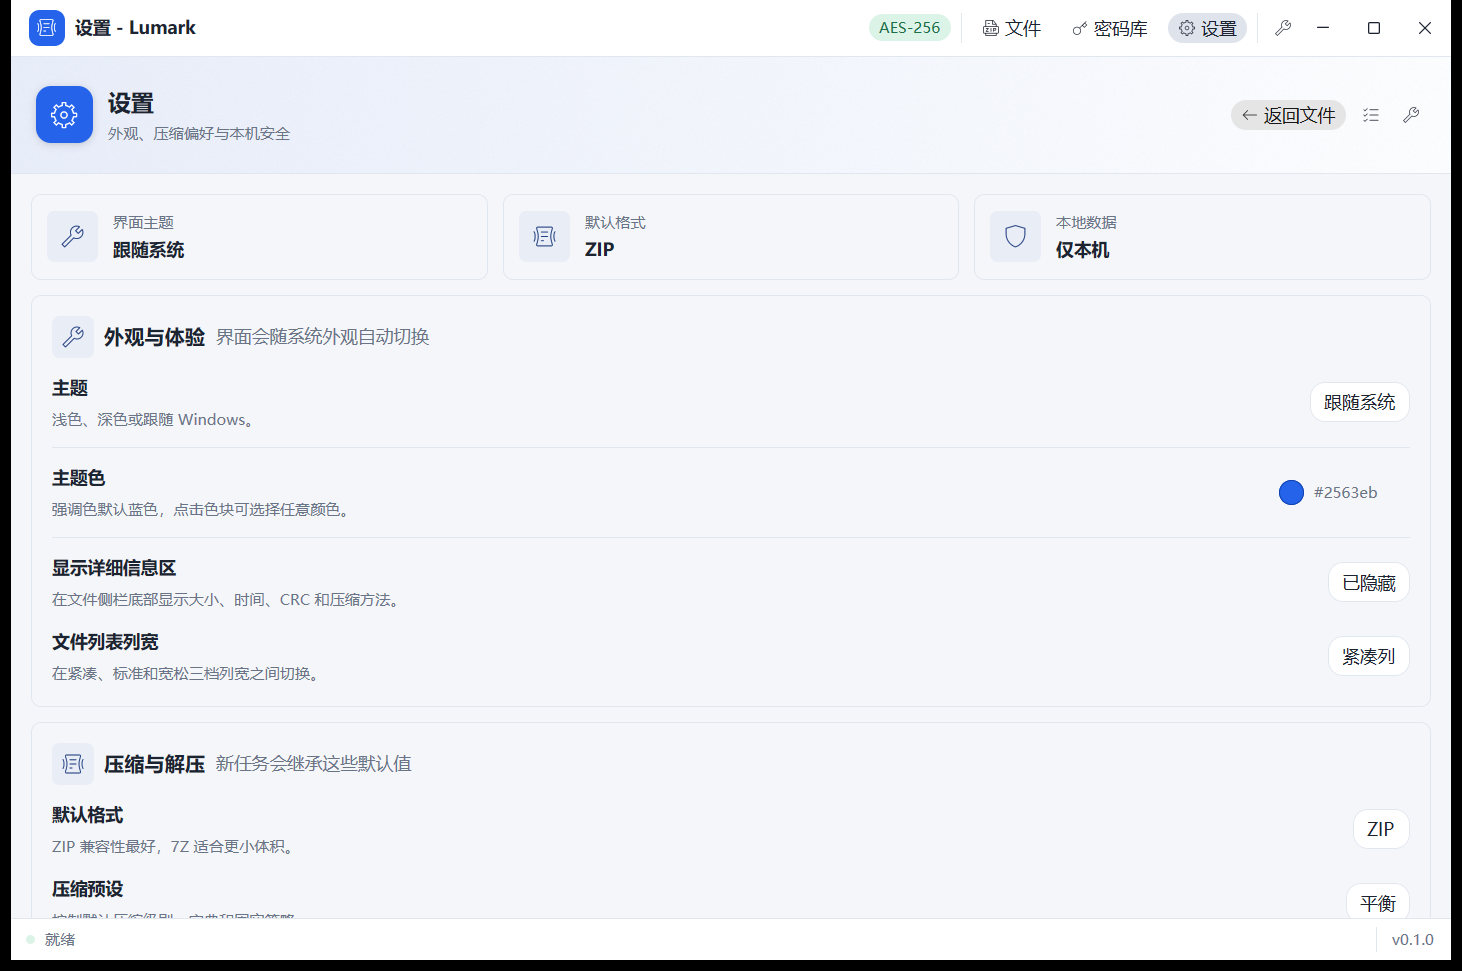
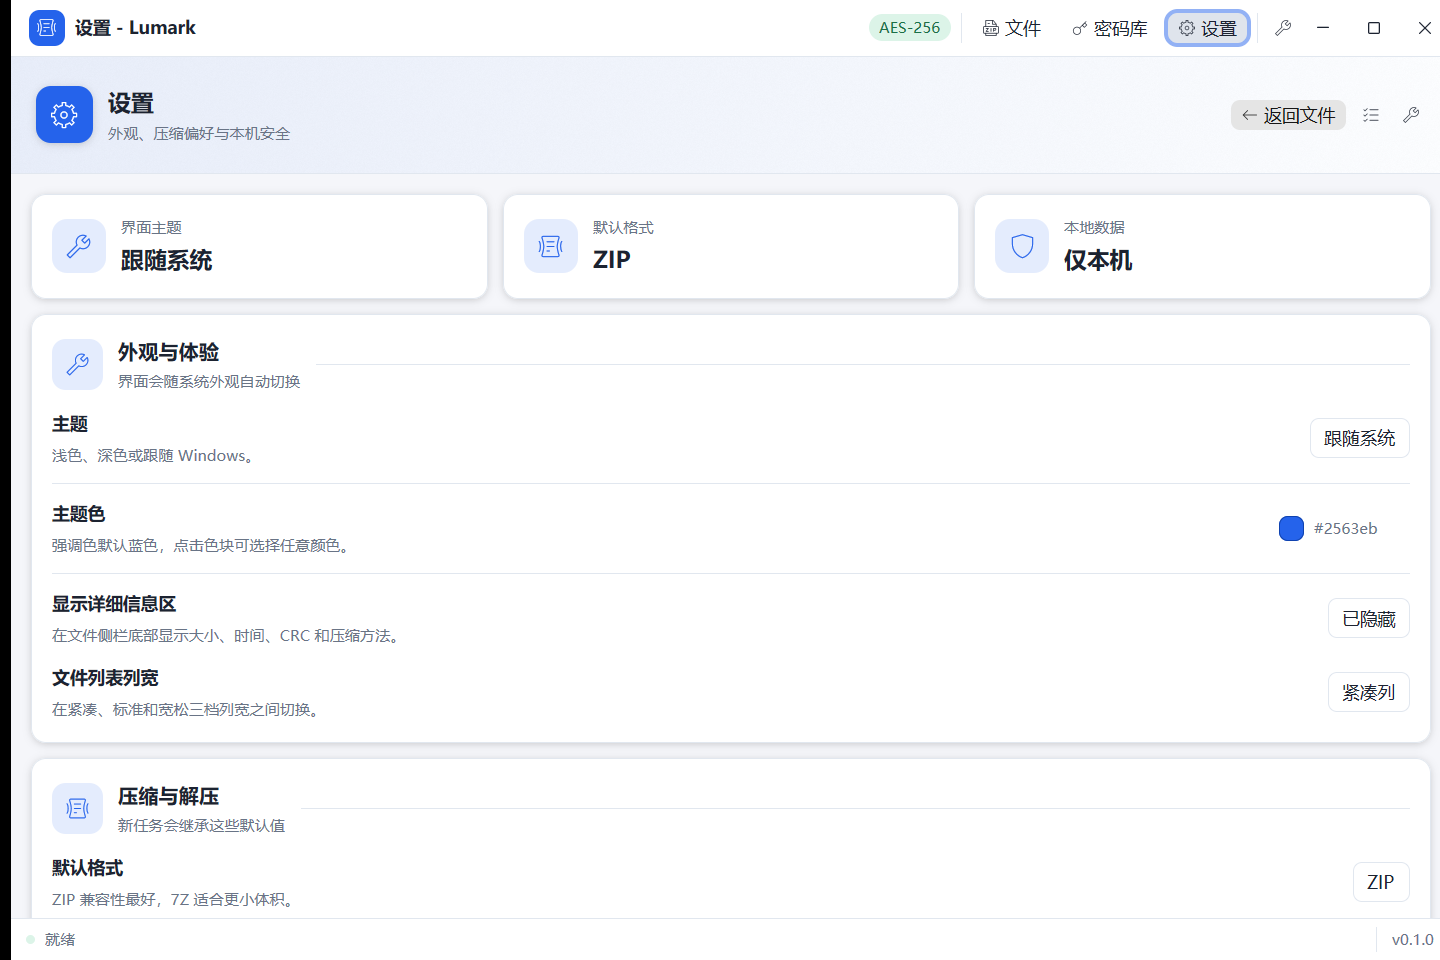
feat: 优化设置与任务页面层次

diff --git a/crates/lumark-ui/src/app/view/pages.rs b/crates/lumark-ui/src/app/view/pages.rs
@@ -87,6 +87,7 @@ impl LumarkApp {
                                     .p_4()
                                     .gap_2()
                                     .items_center()
+                                    .bg(cx.theme().muted.opacity(0.45))
                                     .border_b_1()
                                     .border_color(cx.theme().border)
                                     .child(
@@ -466,6 +467,7 @@ impl LumarkApp {
                                     .p_4()
                                     .gap_2()
                                     .items_center()
+                                    .bg(cx.theme().muted.opacity(0.45))
                                     .border_b_1()
                                     .border_color(cx.theme().border)
                                     .child(AppIcon::Edit.element(16.))
@@ -1180,6 +1182,7 @@ impl LumarkApp {
                             .justify_between()
                             .items_center()
                             .p_4()
+                            .bg(cx.theme().muted.opacity(0.45))
                             .border_b_1()
                             .border_color(cx.theme().border)
                             .child(
@@ -1308,8 +1311,8 @@ impl LumarkApp {
                     .mt(px(2.))
                     .flex_shrink_0()
                     .rounded(px(8.))
-                    .bg(cx.theme().accent)
-                    .text_color(cx.theme().accent_foreground)
+                    .bg(badge_bg)
+                    .text_color(badge_fg)
                     .flex()
                     .items_center()
                     .justify_center()
@@ -1495,31 +1498,31 @@ fn password_stat(
     label: &str,
     value: &str,
 ) -> impl IntoElement {
-    card(cx).flex_1().p_3().child(
+    card(cx).flex_1().p_4().child(
         h_flex()
             .gap_3()
             .items_center()
             .child(
                 div()
-                    .size(px(34.))
-                    .rounded_md()
-                    .bg(cx.theme().accent)
-                    .text_color(cx.theme().accent_foreground)
+                    .size(px(36.))
+                    .rounded(px(10.))
+                    .bg(cx.theme().primary.opacity(0.12))
+                    .text_color(cx.theme().primary)
                     .flex()
                     .items_center()
                     .justify_center()
-                    .child(icon.element(17.)),
+                    .child(icon.element(18.)),
             )
             .child(
                 v_flex()
-                    .gap(px(0.))
+                    .gap(px(1.))
                     .child(
                         div()
                             .text_xs()
                             .text_color(cx.theme().muted_foreground)
                             .child(label.to_string()),
                     )
-                    .child(div().text_sm().font_semibold().child(value.to_string())),
+                    .child(div().text_lg().font_semibold().child(value.to_string())),
             ),
     )
 }

diff --git a/crates/lumark-ui/src/app/view/components.rs b/crates/lumark-ui/src/app/view/components.rs
@@ -120,14 +120,18 @@ pub(super) fn icon_button(
         .accessibility_label(tooltip)
 }
 
-/// 文件列表和设置分组使用的标准卡片表面。
+/// 页面分组使用的标准卡片表面。
+///
+/// 页面底色保持浅灰，卡片使用浮层白面、细边框和轻阴影，让设置、密码库和
+/// 任务中心的分组从背景中分离出来，而不是整页糊成同一层灰色。
 pub(super) fn card(cx: &Context<LumarkApp>) -> gpui_kit::Div {
     v_flex()
         .w_full()
-        .bg(cx.theme().background)
+        .bg(cx.theme().popover)
         .border_1()
         .border_color(cx.theme().border)
-        .rounded_lg()
+        .rounded(px(10.))
+        .shadow_sm()
         .overflow_hidden()
 }
 
@@ -343,7 +347,10 @@ pub(super) fn option_radio(
         .into_any_element()
 }
 
-/// 带可选尾部说明的分区标题。
+/// 渲染带图标、标题和说明的分区标题。
+///
+/// 标题与说明改为上下排列，并在右侧延伸到卡片边缘的细线，形成比单行
+/// 小字更清晰的分组层级。
 pub(super) fn section_heading(
     cx: &Context<LumarkApp>,
     icon: AppIcon,
@@ -353,27 +360,34 @@ pub(super) fn section_heading(
     h_flex()
         .w_full()
         .items_center()
-        .gap_2()
+        .gap_3()
         .child(
             div()
-                .size(px(28.))
-                .rounded_md()
-                .bg(cx.theme().accent)
-                .text_color(cx.theme().accent_foreground)
+                .size(px(34.))
+                .flex_shrink_0()
+                .rounded(px(9.))
+                .bg(cx.theme().primary.opacity(0.12))
+                .text_color(cx.theme().primary)
                 .flex()
                 .items_center()
                 .justify_center()
-                .child(icon.element(16.)),
+                .child(icon.element(17.)),
         )
-        .child(div().font_semibold().child(title.to_string()))
-        .when(caption.is_some(), |this| {
-            this.child(
-                div()
-                    .text_sm()
-                    .text_color(cx.theme().muted_foreground)
-                    .child(caption.unwrap_or_default()),
-            )
-        })
+        .child(
+            v_flex()
+                .min_w_0()
+                .gap(px(1.))
+                .child(div().text_base().font_semibold().child(title.to_string()))
+                .when(caption.is_some(), |this| {
+                    this.child(
+                        div()
+                            .text_xs()
+                            .text_color(cx.theme().muted_foreground)
+                            .child(caption.unwrap_or_default()),
+                    )
+                }),
+        )
+        .child(div().flex_1().h(px(1.)).bg(cx.theme().border))
 }
 
 /// 把文件行映射为易识别的 IconPark 图标。

diff --git a/IMPLEMENTATION_STATUS.md b/IMPLEMENTATION_STATUS.md
@@ -34,6 +34,7 @@
 - [x] 压缩后端使用 zlib-ng，ZIP 按 1 MiB 分块读写并按块响应取消；7Z 通过进度读取器报告当前文件进度；7Z 算法支持 LZMA2/LZMA/PPMd/BZip2 及字典、单词、固实块和线程参数，ZIP 算法支持 Deflate/BZip2/LZMA。
 - [x] 界面组件迁移到 gpui-kit 官方实现：动作带使用图标在上、文字在下的官方 Button，路径与搜索栏使用官方 InputGroup，高级搜索使用官方下拉菜单切换包含/通配符/正则，标题栏、导航行和侧栏的小按钮使用官方 ghost 文本按钮，所有按钮悬停显示手形指针，格式与算法/时间下拉使用官方 Select，文件右键菜单使用 ContextMenu/PopupMenu，文件表使用官方 Scrollbar，经典窗口使用官方 Tabs、GroupBox、Radio 和 Checkbox。
 - [x] 自定义主题色：设置页使用官方 ColorPicker，默认蓝色；可选预设色或任意十六进制/HSLA 颜色，主按钮、动作带、选中态、进度条和状态栏同步换色并持久化。
+- [x] 设置、密码库和任务中心统一使用白色浮层卡片、轻阴影、蓝色分区图标和浅色标题带，分组之间通过留白、分隔线和状态色建立层次，避免整页都是同一种灰色。任务记录图标使用状态色区分进行中、完成和失败。
 - [x] 修复标题栏拖拽区域吞掉右上角密码库/设置按钮点击的问题；模态遮罩增加 occlude 命中阻塞，压缩设置对话框不再把鼠标事件穿透到下层文件表。删除确认对话框改为图标标题、待删除项目列表和右对齐操作按钮，明确区分回收站与归档内永久删除。
 - [x] 现代浅色/深色主题、双栏密码库、分组设置页和统一模态层保留，并适配新的标题栏、页头横幅和无侧栏工作区。
 - [x] IconPark 官方 SVG 已下载并本地打包，使用 `currentColor` 跟随主题；许可文件随资源保存，新增图标同步登记在 `tools/fetch_iconpark_icons.ps1`。
